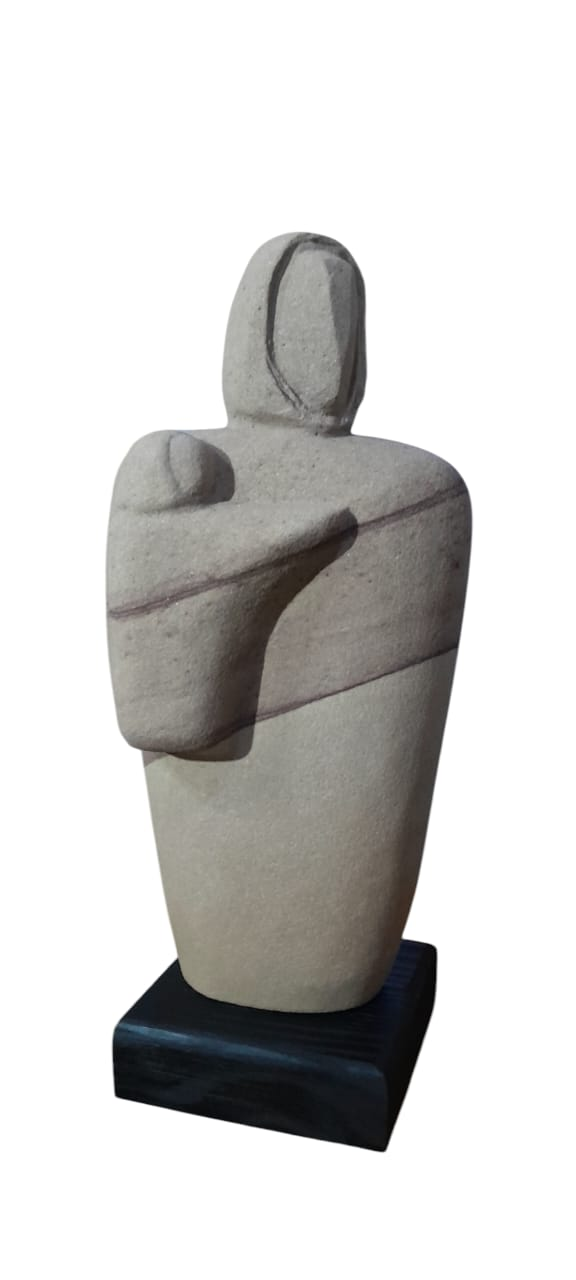
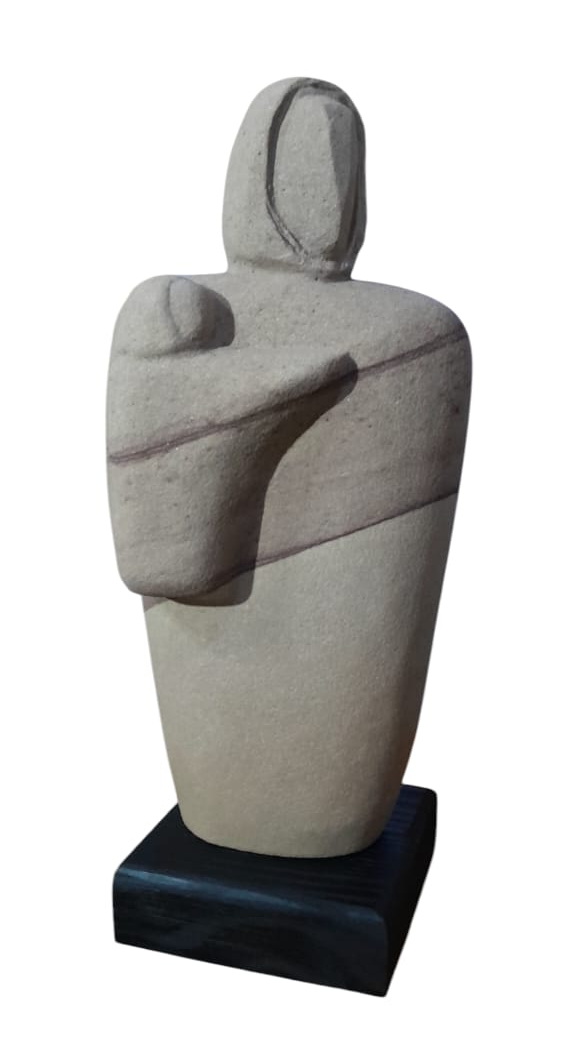
display top of image on page

Changed region(s): [[0.1562, 0.0614, 0.8438, 0.6136], [0.1875, 0.7057, 0.7812, 0.9818], [0.7188, 0.675, 0.75, 0.7057]]

diff --git a/src/components/ModalImage.tsx b/src/components/ModalImage.tsx
@@ -25,7 +25,7 @@ const ModalImage: React.FC<ModalImageProps> = ({ src, alt, standardWidth, standa
         <img
           src={src}
           alt={alt}
-          className="w-full h-full object-cover transition-transform duration-500 group-hover:scale-110"
+          className="w-full h-full object-cover object-top transition-transform duration-500 group-hover:scale-110"
         />
       </div>
 
